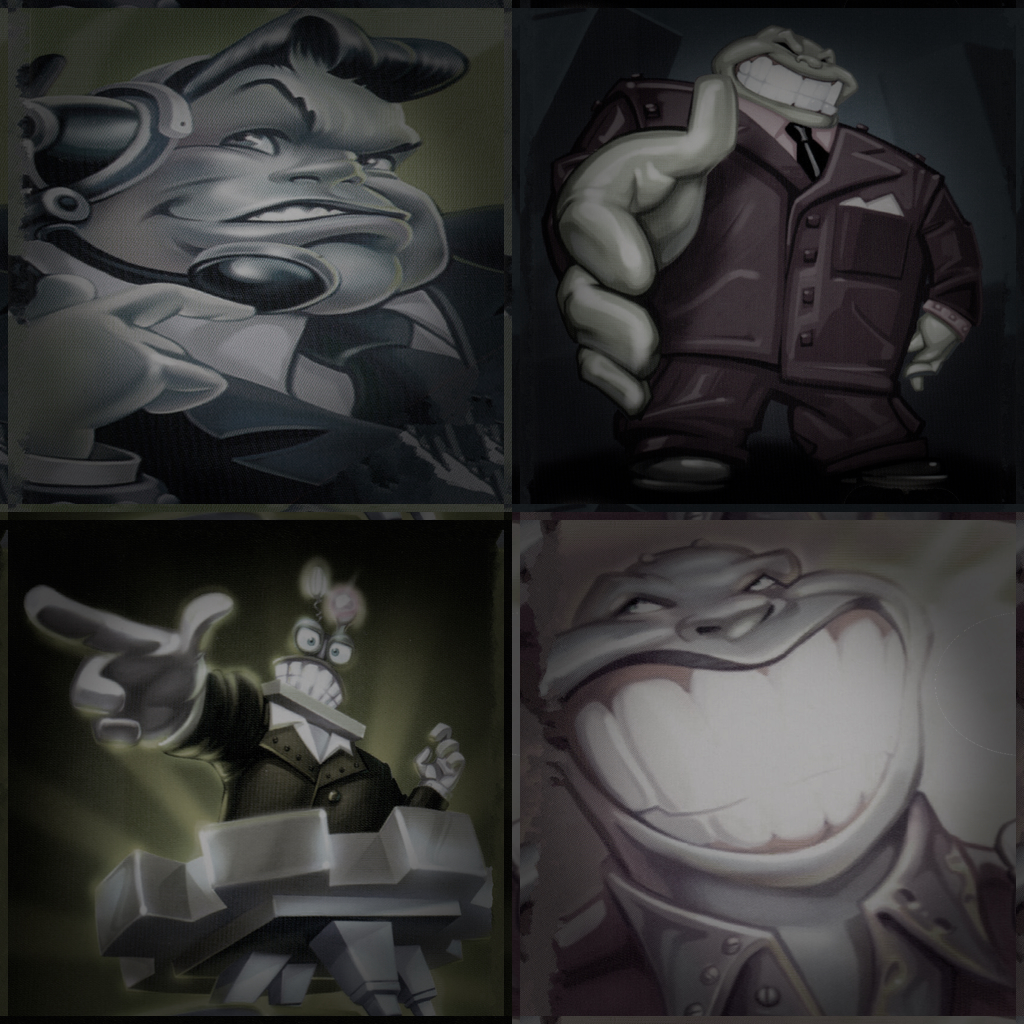
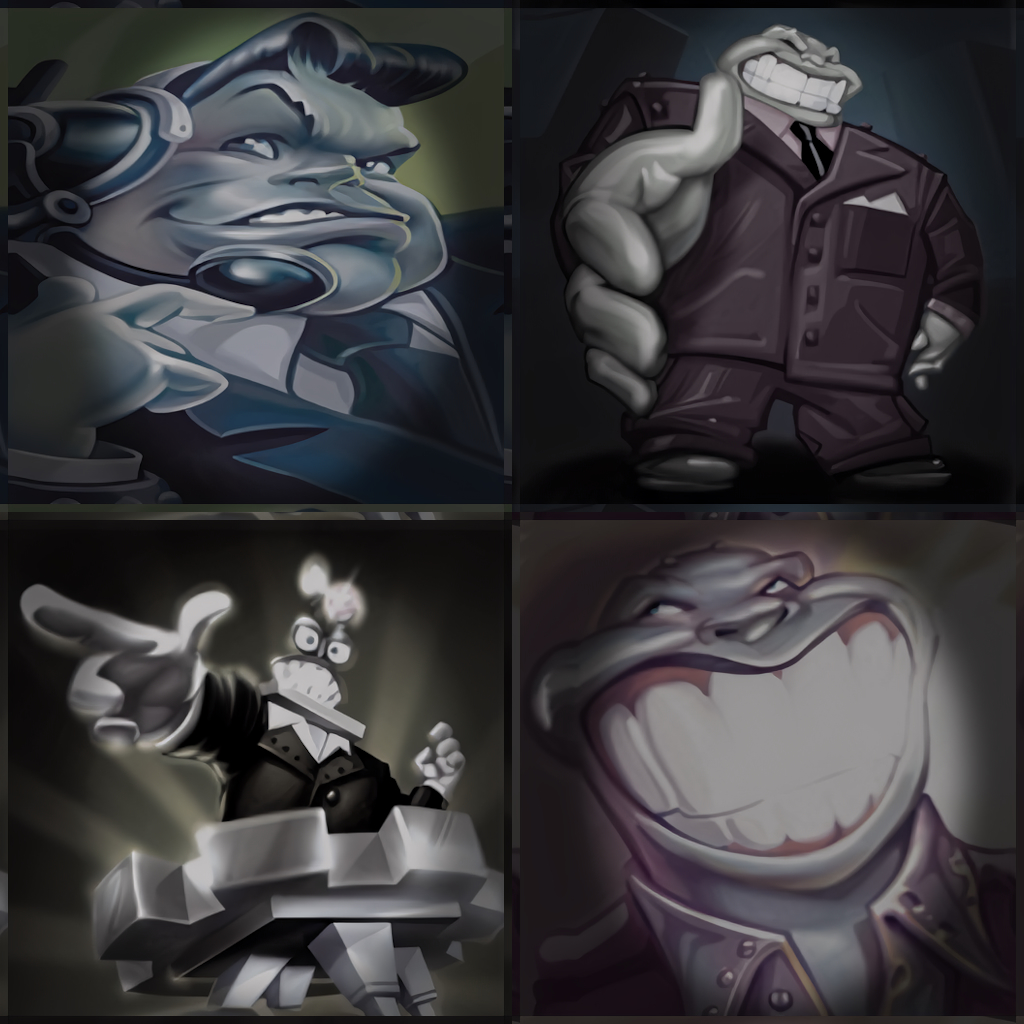
phase_12: Upscaled Cog portraits

diff --git a/README.md b/README.md
@@ -41,7 +41,8 @@ The things changed are:
 * Update the vanilla battle menu to correctly include the Fires icon
 * Corrected Clarabelle's glove color to be accurate to her appearance in Toontown Online
 * Fix a poor quality removal of a small light on the Donald's Dreamland skybox that caused a small seam in the texture
-* Remastered Bossbot HQ/Toon Hall portraits using color corrected and tweaked scans of the original Trading Cards
+* Remastered Toon Hall portraits using color corrected and tweaked scans of the original Trading Cards
+* Upscaled Bossbot HQ portraits
 * Fixes/improvements to a large variety of transparency issues caused by faulty TIF files or poor editing in the original model repository, such as Estates and Catching Game
 * Fixed typo on Popcorn Cart Estate item
 * Fixed grey lines on the Minnie's Melodyland and Toontown Central curb textures, which caused a very noticeable seam
